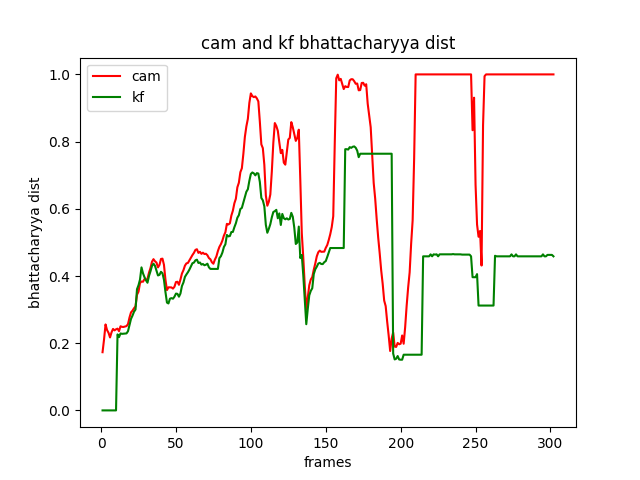
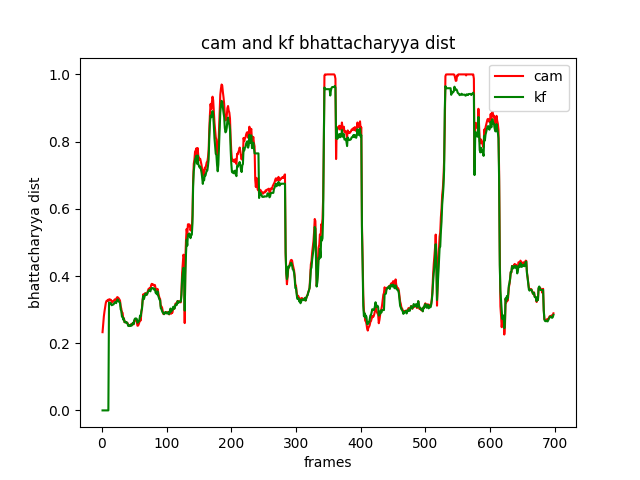
fix occlusion

diff --git a/main.py b/main.py
@@ -79,6 +79,8 @@ while True:
                boxes[0][0]:boxes[1][0]].copy()
         cv2.imshow("template_image", template)
         height, width, channel = template.shape
+        template_img_gray = cv2.cvtColor(template, cv2.COLOR_BGR2GRAY)
+        edge_weight_template = getGradientMagnitude(template_img_gray)
         if height > 0 and width > 0:
             selected = True
             hsv_crop = cv2.cvtColor(template, cv2.COLOR_BGR2HSV)
@@ -192,7 +194,7 @@ while True:
             kalman_img_gray = cv2.cvtColor(kf_corr_img, cv2.COLOR_BGR2GRAY)
             edge_weight = getGradientMagnitude(kalman_img_gray)
 
-        if edge_weight < 100000:
+        if edge_weight < edge_weight_template / 4:
             print("occlusion occurs")
     cv2.imshow("tracking", frame)
     if cv2.waitKey(1) & 0xFF == ord('q'):
